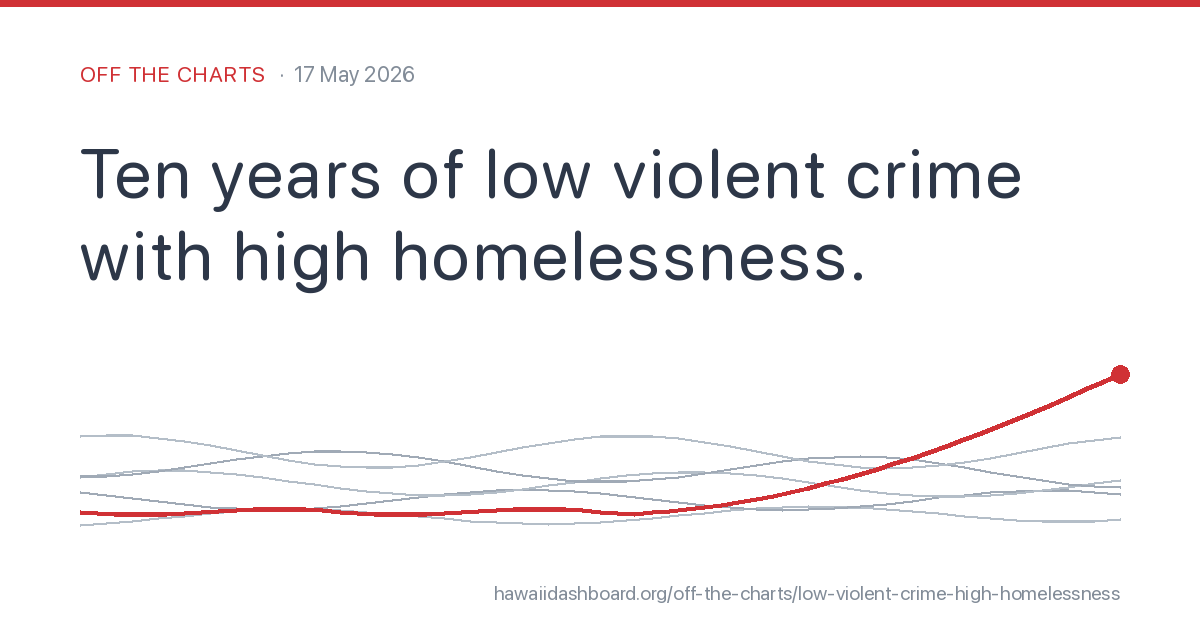
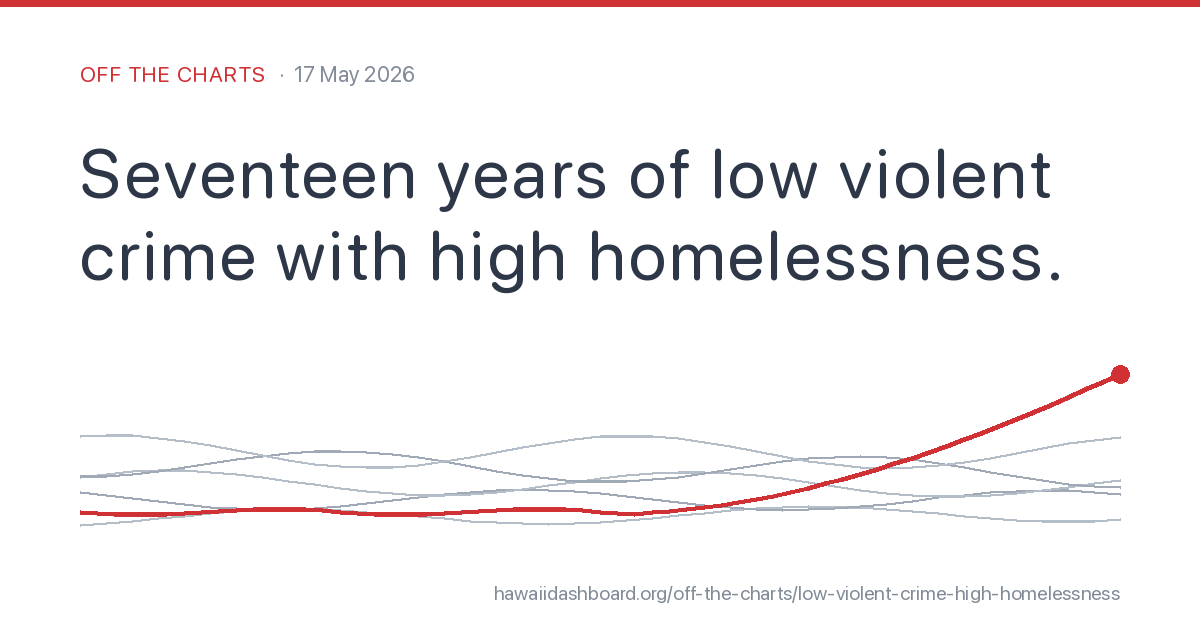
otc: extend crime/homelessness post to 17-year HUD window (2007-2024)
Switched from 10-year to 17-year framing per editorial direction:
the HUD Point-in-Time count began in 2007, which is the true
start of standardized homelessness data. Pushing the window back
makes Hawaiʻi's uniqueness sharper, not weaker.

Title: "Ten years..." -> "Seventeen years of low violent crime
with high homelessness."

Tier language: switched from "top 10" to dashboard-convention
"top tier" (rank/total ≤ 0.33). The asymmetric framing — top-tier
on homelessness, safer-than-median on violent crime — captures
Hawaiʻi's actual position honestly. In 3 years (2015, 2016, 2019)
Hawaiʻi dropped to the middle tier on safety but never crossed
below the national median; the post now names those years.

Cross-state durability re-derived under (top-tier unsheltered ∩
safer-than-median violent crime):
- Hawaiʻi: 17/17 ✓ (still unique)
- Oregon:  16/17 (missed 2024 only)
- Washington: 14/17 (missed 2022, 2023, 2024)

Percent changes re-derived for 2007→2024:
- HI unsheltered +10%, HI violent -17%
- OR unsheltered +34%, OR violent +16%
The Oregon contrast still pins the divergence story.

Table extended to 17 columns. Archive dek + JSON-LD updated.
OG card regenerated with the new title via
scripts/generate-og-off-the-charts-posts.py.

Changed region(s): [[0.0617, 0.2413, 0.8942, 0.3317], [0.0617, 0.3619, 0.8942, 0.4825]]

diff --git a/off-the-charts/low-violent-crime-high-homelessness/index.html b/off-the-charts/low-violent-crime-high-homelessness/index.html
@@ -4,12 +4,12 @@
     <meta charset="UTF-8">
     <meta name="viewport" content="width=device-width, initial-scale=1.0">
     <meta name="robots" content="max-image-preview:large, max-snippet:-1">
-    <title>Ten years of low violent crime with high homelessness. | Off the Charts</title>
-    <meta name="description" content="For ten observation years, Hawai&#x02BB;i has held a position no other state has matched: top-10 nationally in unsheltered homelessness and below-median violent crime. Oregon was closest at 9 of 10 years; Washington at 7.">
+    <title>Seventeen years of low violent crime with high homelessness. | Off the Charts</title>
+    <meta name="description" content="Every year since HUD began counting unsheltered homelessness in 2007, Hawai&#x02BB;i has ranked top-tier on that metric while remaining safer than the national median on violent crime. No other state has matched that combination every year of the seventeen-year window.">
     <meta property="og:type" content="article">
     <meta property="og:url" content="https://hawaiidashboard.org/off-the-charts/low-violent-crime-high-homelessness/">
-    <meta property="og:title" content="Ten years of low violent crime with high homelessness.">
-    <meta property="og:description" content="For ten observation years, Hawai&#x02BB;i has held a position no other state has matched: top-10 nationally in unsheltered homelessness and below-median violent crime. Oregon was closest at 9 of 10 years; Washington at 7.">
+    <meta property="og:title" content="Seventeen years of low violent crime with high homelessness.">
+    <meta property="og:description" content="Every year since HUD began counting unsheltered homelessness in 2007, Hawai&#x02BB;i has ranked top-tier on that metric while remaining safer than the national median on violent crime. No other state has matched that combination every year of the seventeen-year window.">
     <meta property="og:image" content="https://hawaiidashboard.org/assets/og/off-the-charts/low-violent-crime-high-homelessness.png">
     <meta property="og:image:width" content="1200">
     <meta property="og:image:height" content="630">
@@ -17,8 +17,8 @@
     <meta property="article:published_time" content="2026-05-17">
     <meta property="article:section" content="Off the Charts">
     <meta name="twitter:card" content="summary_large_image">
-    <meta name="twitter:title" content="Ten years of low violent crime with high homelessness.">
-    <meta name="twitter:description" content="For ten observation years, Hawai&#x02BB;i has held a position no other state has matched: top-10 nationally in unsheltered homelessness and below-median violent crime. Oregon was closest at 9 of 10 years; Washington at 7.">
+    <meta name="twitter:title" content="Seventeen years of low violent crime with high homelessness.">
+    <meta name="twitter:description" content="Every year since HUD began counting unsheltered homelessness in 2007, Hawai&#x02BB;i has ranked top-tier on that metric while remaining safer than the national median on violent crime. No other state has matched that combination every year of the seventeen-year window.">
     <meta name="twitter:image" content="https://hawaiidashboard.org/assets/og/off-the-charts/low-violent-crime-high-homelessness.png">
     <link rel="canonical" href="https://hawaiidashboard.org/off-the-charts/low-violent-crime-high-homelessness/">
 
@@ -27,8 +27,8 @@
     {
       "@context": "https://schema.org",
       "@type": "Article",
-      "headline": "Ten years of low violent crime with high homelessness.",
-      "description": "For ten observation years, Hawaiʻi has held a position no other state has matched: top-10 nationally in unsheltered homelessness and below-median violent crime. Oregon was closest at 9 of 10 years; Washington at 7.",
+      "headline": "Seventeen years of low violent crime with high homelessness.",
+      "description": "Every year since HUD began counting unsheltered homelessness in 2007, Hawaiʻi has ranked top-tier on that metric while remaining safer than the national median on violent crime. No other state has matched that combination every year of the seventeen-year window.",
       "datePublished": "2026-05-17",
       "dateModified": "2026-05-17",
       "author": { "@type": "Organization", "name": "Hawaiʻi Dashboard" },
@@ -57,7 +57,7 @@
       "itemListElement": [
         { "@type": "ListItem", "position": 1, "name": "Dashboard", "item": "https://hawaiidashboard.org/" },
         { "@type": "ListItem", "position": 2, "name": "Off the Charts", "item": "https://hawaiidashboard.org/off-the-charts/" },
-        { "@type": "ListItem", "position": 3, "name": "Ten years of low violent crime with high homelessness.", "item": "https://hawaiidashboard.org/off-the-charts/low-violent-crime-high-homelessness/" }
+        { "@type": "ListItem", "position": 3, "name": "Seventeen years of low violent crime with high homelessness.", "item": "https://hawaiidashboard.org/off-the-charts/low-violent-crime-high-homelessness/" }
       ]
     }
     </script>
@@ -113,7 +113,7 @@
 
     <article class="otc-post">
         <p class="otc-post-date">17 May 2026</p>
-        <h1>Ten years of low violent crime with high homelessness.</h1>
+        <h1>Seventeen years of low violent crime with high homelessness.</h1>
 
         <div class="otc-actions">
             <button type="button" class="share-btn"
@@ -121,15 +121,22 @@
                     aria-label="Copy link to this post"><svg width="14" height="14" viewBox="0 0 24 24" fill="none" stroke="currentColor" stroke-width="2" stroke-linecap="round" stroke-linejoin="round" aria-hidden="true"><circle cx="18" cy="5" r="3"/><circle cx="6" cy="12" r="3"/><circle cx="18" cy="19" r="3"/><line x1="8.59" y1="13.51" x2="15.42" y2="17.49"/><line x1="15.41" y1="6.51" x2="8.59" y2="10.49"/></svg><span>Share</span></button>
         </div>
 
-        <p>Every year of the past decade, Hawai&#x02BB;i has ranked in the top 10 nationally for <a href="/rh/unsheltered_homeless_rate/">unsheltered homelessness</a> while remaining in the safer half of the country on <a href="/rh/violent_crime_rate/">violent crime</a>. No other state has matched that combination every year of the decade.</p>
+        <p>Every year since HUD began counting <a href="/rh/unsheltered_homeless_rate/">unsheltered homelessness</a> in 2007, Hawai&#x02BB;i has ranked in the top tier of states on that metric while remaining safer than the national median on <a href="/rh/violent_crime_rate/">violent crime</a>. No other state has matched that combination every year of the seventeen-year window.</p>
 
-        <p>Oregon came closest, holding the same position 9 of 10 years. In 2024, Oregon&rsquo;s violent crime sat above the national median, ending its streak. Washington held the corner 7 years before exiting in 2022. Hawai&#x02BB;i alone has stayed.</p>
+        <p>Oregon came closest at 16 of 17 years; in 2024 its violent crime crossed above the national median, ending its streak. Washington held the combination for 14 years before exiting in 2022. Hawai&#x02BB;i alone has stayed.</p>
 
         <div class="otc-table-wrap">
             <table class="otc-table">
                 <thead>
                     <tr>
                         <th>State</th>
+                        <th class="otc-num">&rsquo;07</th>
+                        <th class="otc-num">&rsquo;08</th>
+                        <th class="otc-num">&rsquo;09</th>
+                        <th class="otc-num">&rsquo;10</th>
+                        <th class="otc-num">&rsquo;11</th>
+                        <th class="otc-num">&rsquo;12</th>
+                        <th class="otc-num">&rsquo;13</th>
                         <th class="otc-num">&rsquo;14</th>
                         <th class="otc-num">&rsquo;15</th>
                         <th class="otc-num">&rsquo;16</th>
@@ -156,7 +163,14 @@
                         <td class="otc-num">&#x2713;</td>
                         <td class="otc-num">&#x2713;</td>
                         <td class="otc-num">&#x2713;</td>
-                        <td class="otc-num">10/10</td>
+                        <td class="otc-num">&#x2713;</td>
+                        <td class="otc-num">&#x2713;</td>
+                        <td class="otc-num">&#x2713;</td>
+                        <td class="otc-num">&#x2713;</td>
+                        <td class="otc-num">&#x2713;</td>
+                        <td class="otc-num">&#x2713;</td>
+                        <td class="otc-num">&#x2713;</td>
+                        <td class="otc-num">17/17</td>
                     </tr>
                     <tr>
                         <td>Oregon</td>
@@ -169,8 +183,15 @@
                         <td class="otc-num">&#x2713;</td>
                         <td class="otc-num">&#x2713;</td>
                         <td class="otc-num">&#x2713;</td>
+                        <td class="otc-num">&#x2713;</td>
+                        <td class="otc-num">&#x2713;</td>
+                        <td class="otc-num">&#x2713;</td>
+                        <td class="otc-num">&#x2713;</td>
+                        <td class="otc-num">&#x2713;</td>
+                        <td class="otc-num">&#x2713;</td>
+                        <td class="otc-num">&#x2713;</td>
                         <td class="otc-num">&ndash;</td>
-                        <td class="otc-num">9/10</td>
+                        <td class="otc-num">16/17</td>
                     </tr>
                     <tr>
                         <td>Washington</td>
@@ -181,19 +202,26 @@
                         <td class="otc-num">&#x2713;</td>
                         <td class="otc-num">&#x2713;</td>
                         <td class="otc-num">&#x2713;</td>
+                        <td class="otc-num">&#x2713;</td>
+                        <td class="otc-num">&#x2713;</td>
+                        <td class="otc-num">&#x2713;</td>
+                        <td class="otc-num">&#x2713;</td>
+                        <td class="otc-num">&#x2713;</td>
+                        <td class="otc-num">&#x2713;</td>
+                        <td class="otc-num">&#x2713;</td>
                         <td class="otc-num">&ndash;</td>
                         <td class="otc-num">&ndash;</td>
                         <td class="otc-num">&ndash;</td>
-                        <td class="otc-num">7/10</td>
+                        <td class="otc-num">14/17</td>
                     </tr>
                 </tbody>
             </table>
         </div>
-        <p class="otc-table-note">Years a state held both top-10 unsheltered homelessness and below-median violent crime. 2021 omitted: HUD skipped its annual count.</p>
+        <p class="otc-table-note">Years a state held both top-tier unsheltered homelessness and safer-than-median violent crime. 2021 omitted: HUD skipped its annual count.</p>
 
-        <p>Hawai&#x02BB;i&rsquo;s <a href="/t/unsheltered_homeless_rate/">unsheltered rate rose 30%</a> over the decade. Its <a href="/t/violent_crime_rate/">violent crime fell 11%</a>. <a href="/t/unsheltered_homeless_rate/or/">Oregon&rsquo;s homelessness also rose</a>, but its <a href="/t/violent_crime_rate/or/">violent crime climbed 47%</a>. The same regional pressure produced opposite outcomes on safety.</p>
+        <p>Even in years when Hawai&#x02BB;i briefly dropped from the top tier on violent-crime safety (in 2015, 2016, and 2019), it never crossed below the national median. Hawai&#x02BB;i&rsquo;s <a href="/t/unsheltered_homeless_rate/">unsheltered rate</a> rose 10% since 2007; its <a href="/t/violent_crime_rate/">violent crime</a> fell 17%. <a href="/t/unsheltered_homeless_rate/or/">Oregon&rsquo;s homelessness rose 34%</a>, but its <a href="/t/violent_crime_rate/or/">violent crime climbed 16%</a>. The same regional pressure produced opposite outcomes on safety.</p>
 
-        <p>Hawai&#x02BB;i&rsquo;s policy conversation regularly conflates visible homelessness with public safety. A decade of data says they are different problems requiring different answers.</p>
+        <p>Hawai&#x02BB;i&rsquo;s policy conversation regularly conflates visible homelessness with public safety. Seventeen years of data say they are different problems requiring different answers.</p>
     </article>
 
     <p class="otc-back"><a href="/off-the-charts/">&larr; All Off the Charts posts</a></p>

diff --git a/off-the-charts/index.html b/off-the-charts/index.html
@@ -51,7 +51,7 @@
       "blogPost": [
         {
           "@type": "BlogPosting",
-          "headline": "Ten years of low violent crime with high homelessness.",
+          "headline": "Seventeen years of low violent crime with high homelessness.",
           "url": "https://hawaiidashboard.org/off-the-charts/low-violent-crime-high-homelessness/",
           "datePublished": "2026-05-17",
           "image": "https://hawaiidashboard.org/assets/og/off-the-charts/low-violent-crime-high-homelessness.png"
@@ -147,8 +147,8 @@
 
         <article class="otc-archive-item" id="low-violent-crime-high-homelessness">
             <p class="otc-archive-date">17 May 2026</p>
-            <h2><a href="/off-the-charts/low-violent-crime-high-homelessness/">Ten years of low violent crime with high homelessness.</a></h2>
-            <p class="otc-dek">Every year of the past decade, Hawai&#x02BB;i has ranked top-10 nationally for unsheltered homelessness while remaining in the safer half of the country on violent crime. No other state has matched that combination every year. Oregon came closest at 9 of 10 years; Washington at 7.</p>
+            <h2><a href="/off-the-charts/low-violent-crime-high-homelessness/">Seventeen years of low violent crime with high homelessness.</a></h2>
+            <p class="otc-dek">Every year since HUD began counting unsheltered homelessness in 2007, Hawai&#x02BB;i has ranked in the top tier of states on that metric while staying safer than the national median on violent crime. No other state has matched the combination every year. Oregon came closest at 16 of 17; Washington at 14.</p>
             <p class="otc-read-more"><a href="/off-the-charts/low-violent-crime-high-homelessness/">Read post &rarr;</a></p>
         </article>
 

diff --git a/scripts/generate-og-off-the-charts-posts.py b/scripts/generate-og-off-the-charts-posts.py
@@ -31,9 +31,9 @@ SLATE    = (56, 75, 91)
 POSTS = [
     {
         "slug": "low-violent-crime-high-homelessness",
-        "title": "Ten years of low violent crime with high homelessness.",
+        "title": "Seventeen years of low violent crime with high homelessness.",
         "date":  "17 May 2026",
-        # Outlier line: Hawaiʻi alone in the corner for the full decade.
+        # Outlier line: Hawaiʻi alone in the corner for the full HUD-count window.
         "outlier": "high",
     },
     {
